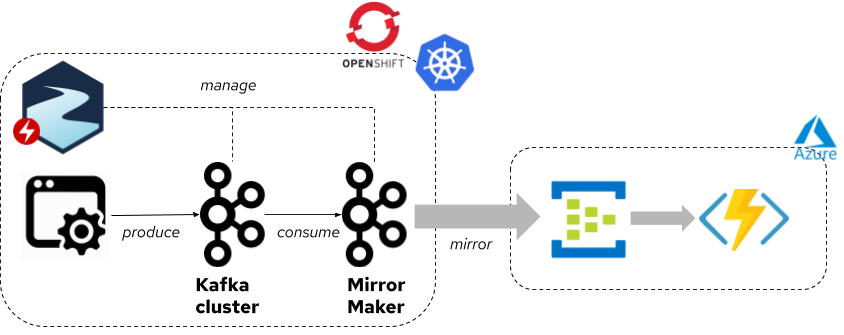
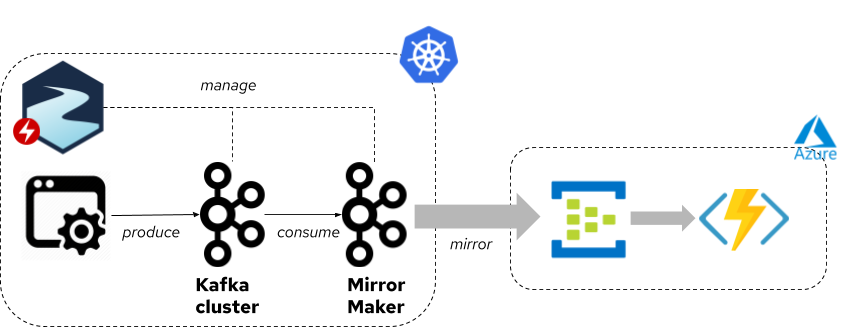
Fixed comments

Changed region(s): [[0.4005, 0.0, 0.5853, 0.2985]]

diff --git a/_posts/2020-05-18-mirror-kafka-eventhub.md b/_posts/2020-05-18-mirror-kafka-eventhub.md
@@ -5,7 +5,7 @@ date: 2020-05-18
 author: paolo_patierno
 ---
 
-Let's imagine to have a software architecture based on Apache Kafka running on an on-premise Kubernetes or OpenShift installation and managed by the Strimzi operators.
+Let's imagine to have a software architecture based on Apache Kafka running on an on-premise Kubernetes installation and managed by the Strimzi operators.
 All the services are able to communicate with each other exchanging messages through a set of topics.
 At some point there is a new requirement to fullfil: all messages, sent to a specific topic, have to trigger some processing in the cloud via Microsoft Azure Functions already connected to an Azure Event Hub instance.
 It is a third party application already in place that we need to integrate with our own system.
@@ -20,7 +20,7 @@ Before starting to deploy the different components, let's take a look at how the
 
 ![Overall architecture](/assets/images/posts/2020-05-18-kafka-mirror-eventhub.png)
 
-On one side there is a Kubernetes or OpenShift cluster where an Apache Kafka cluster is deployed and managed via the Strimzi operators as well as the Kafka Mirror Maker instance.
+On one side there is a Kubernetes cluster where an Apache Kafka cluster is deployed and managed via the Strimzi operators as well as the Kafka Mirror Maker instance.
 An application, running on the same cluster, produces messages to an Apache Kafka topic and all the data are consumed by Kafka Mirror Maker in order to be mirrored to the remote Azure Event Hub instance.
 
 On the other side there is the Azure Event Hub namespace, on the Microsoft Azure Cloud, where an Event Hub is filled by the messages mirrored from the corresponding Apache Kafka topic.
@@ -97,6 +97,7 @@ When mirroring messages from a source Apache Kafka cluster to a target one, the 
 It means consuming remotely and producing locally.
 In this integration scenario, it is not possible because there is no way to deploy Kafka Mirror Maker alongside the Event Hub namespace that is the target cluster.
 For this reason, the paradigm will be slightly different, deploying Kafka Mirror Maker alongside the source Apache Kafka cluster where we have more control.
+Anyway, it's worth mentioning that the Kubernetes cluster, where Apache Kafka runs, could be an AKS (Azure Kubernetes Service) one so as part of the same Microsoft Cloud infrastracture.
 
 The first step is storing the Event Hub authentication info into a Kubernetes `Secret` in order to be referenced in the Strimzi `KafkaMirrorMaker` custom resource for enabling the producer part to connect to the Event Hub itself.
 The following snippet shows such a `Secret` where the `$ConnectionString` hasn't to be changed while the endpoint has to be customized with the actual Event Hub connection string; save this `Secret` in a file named `eventhubs-secret.yaml`
@@ -218,7 +219,7 @@ On the Azure Functions application, the messages will be logged as following.
 ### Conclusion
 
 Integrating applications running on different platforms and different clouds is becoming quite common nowadays and the hybrid cloud based use cases are growing fast.
-Back to the scenario showed in this blog post, the Apache Kafka cluster on Kubernetes or OpenShift could run on any cloud provider (Azure, Amazon, IBM, GCP) and thanks to the Strimzi operators, its deployment and management is fairly simple as well as mirroring data to other systems like Event Hub using Kafka Mirror Maker.
+Back to the scenario showed in this blog post, the Apache Kafka cluster on Kubernetes could run on any cloud provider (Azure, Amazon, IBM, GCP) and thanks to the Strimzi operators, its deployment and management is fairly simple as well as mirroring data to other systems like Event Hub using Kafka Mirror Maker.
 
 I hope this post has persuaded you of the benefit of using Strimzi and Mirror Maker to do such an integration with Azure.
 Let us know what you are going to integrate!
